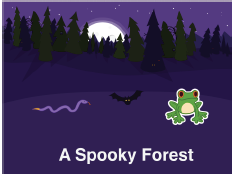
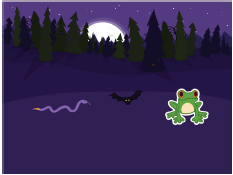
Adding screenshots for new languages
Changed spooky forest activity and literacy-math curriculum to have thumbnails without words.
Sample Projects Tip:
- home screen
- sample projects screen
Sharing Projects Tip:
- share, parent gate, shared-project
- share by email (2)
- share by airdrop (5) removed the ‘no sharing available’ screen and just added the message to the text.

Changed region(s): [[0.2403, 0.8286, 0.8412, 0.9429]]

diff --git a/learn.html b/learn.html
@@ -937,8 +937,7 @@
         After they've opened the project, the blue ribbon will disappear from the Home screen.
       </div>
       <div class="content-section-item-description">
-        If AirDrop isn't available on your iPad (earlier than 4th generation or iOS 7), you'll see this message:<br/>
-        <img src="images/tips/share-airdrop4.png" class="content-section-image" alt="AirDrop unavailable dialog" />
+        If AirDrop isn't available on your iPad (earlier than 4th generation or iOS 7), you'll see the message "No share actions available."<br/>
       </div>
       <div class="content-section-item-description">
         If the recipient iPad doesn't have ScratchJr installed, you'll see this message:
